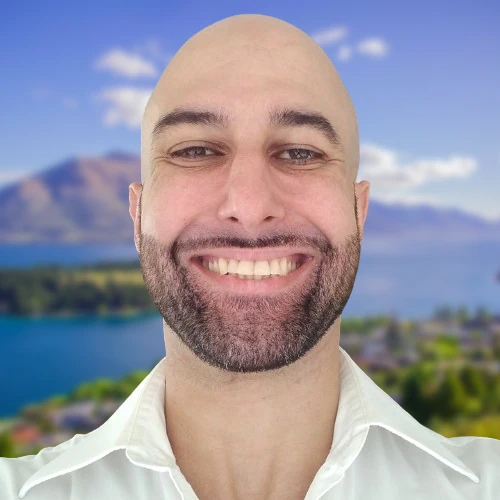
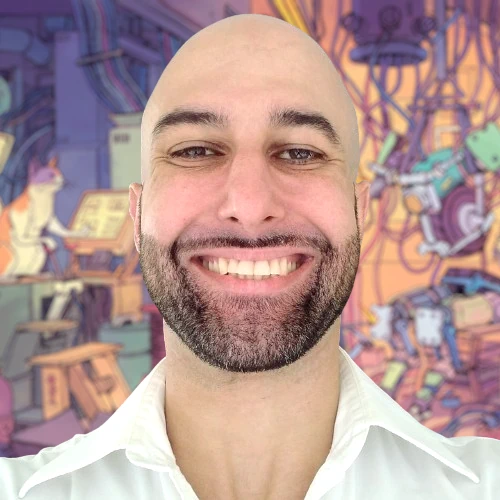
Update profile photo

diff --git a/en-us/index.html b/en-us/index.html
@@ -31,7 +31,7 @@
                 <main>
                     <section class="clearfix">
                         <div class="image-wrapper">
-                            <img src="../images/robson_niemeyer.webp" alt="Foto de Robson Niemeyer sorrindo" width="240" height="240" />
+                            <img src="../images/robson_niemeyer.webp" alt="Artistic photo of Robson Niemeyer smiling" width="207" height="207" />
                         </div>
                         <hgroup>
                             <h1>Hi! My name is Robson Niemeyer.</h1>

diff --git a/index.html b/index.html
@@ -31,7 +31,7 @@
                 <main>
                     <section class="clearfix">
                         <div class="image-wrapper">
-                            <img src="images/robson_niemeyer.webp" alt="Foto de Robson Niemeyer sorrindo" width="207" height="207" />
+                            <img src="images/robson_niemeyer.webp" alt="Foto artística de Robson Niemeyer sorrindo" width="207" height="207" />
                         </div>
                         <hgroup>
                             <h1>Olá! Meu nome é Robson Niemeyer.</h1>
